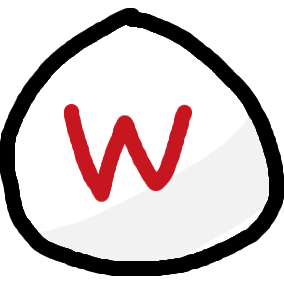
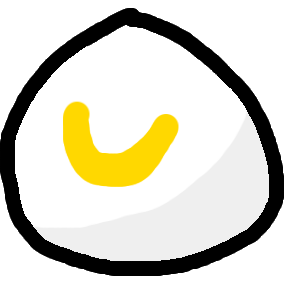
go back to cheeserox naming

diff --git a/assets/scss/style.scss b/assets/scss/style.scss
@@ -1,6 +1,6 @@
 @import url('https://fonts.googleapis.com/css2?family=Barlow:ital,wght@0,100;0,200;0,300;0,400;0,500;0,600;0,700;0,800;0,900;1,100;1,200;1,300;1,400;1,500;1,600;1,700;1,800&display=swap');
 
-$brand-color: #C6161F;
+$brand-color: #FFAE00;
 
 /// General Styling \\\
 body {
